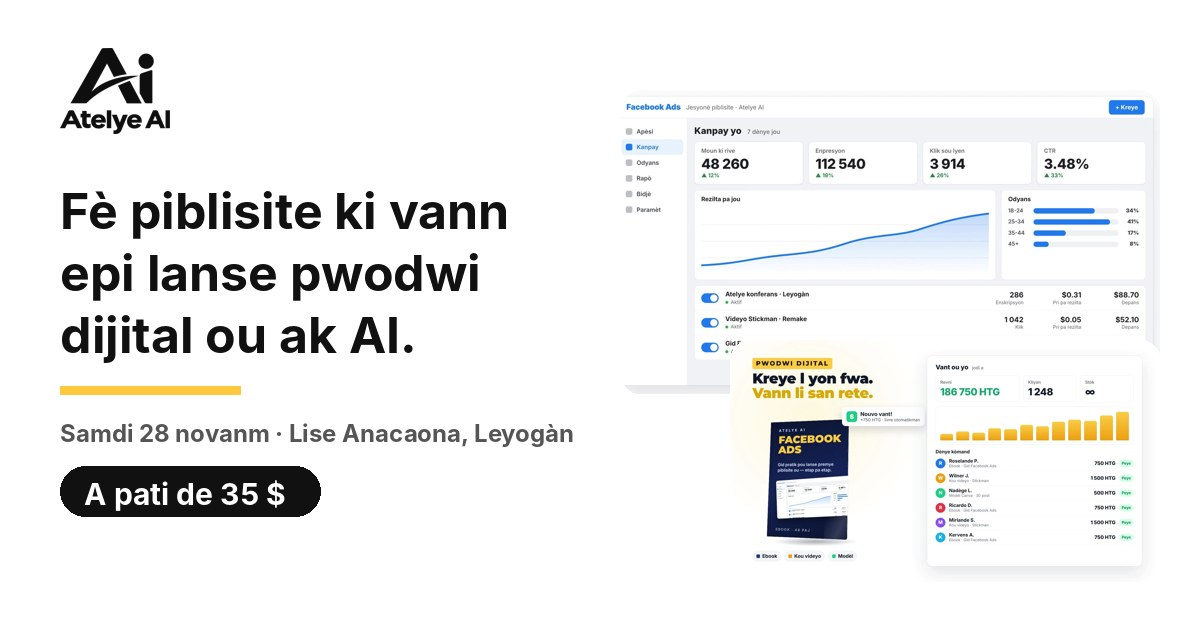
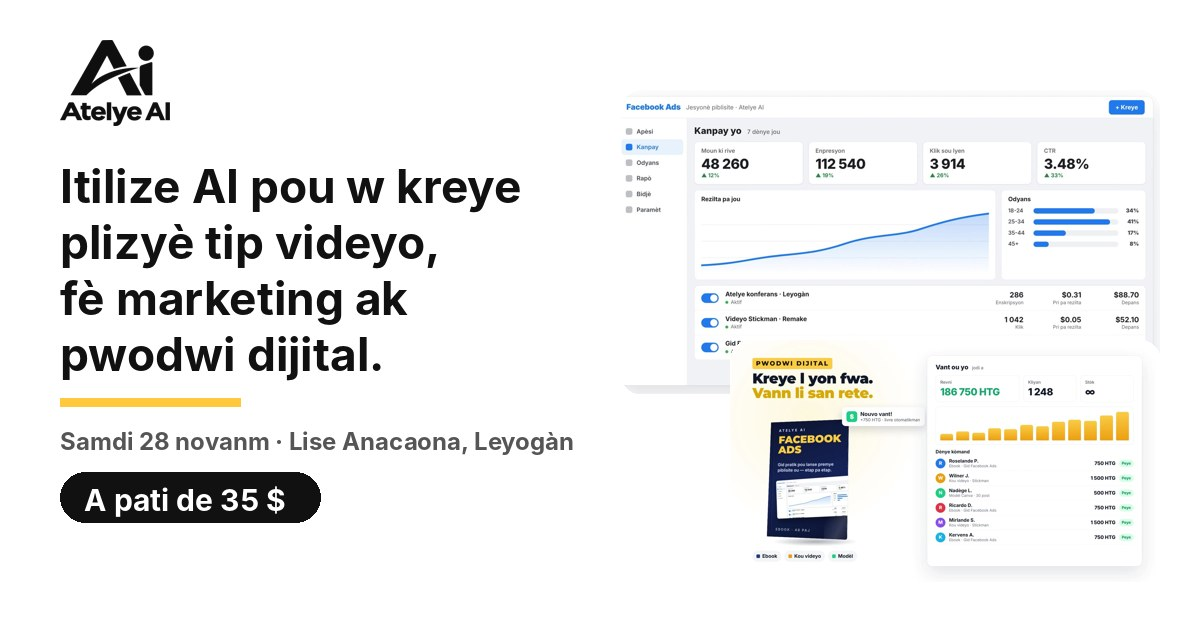
Konferans: new headline 'Itilize AI pou w kreye plizyè tip videyo, fè marketing ak pwodwi dijital' in page, metadata and share image
Claude-Session: https://claude.ai/code/session_01EfbnunJUApRHNS5LHtqyBb

Changed region(s): [[0.0308, 0.2714, 0.4933, 0.8444], [0.0308, 0.0603, 0.1542, 0.2111]]

diff --git a/public/konferans.html b/public/konferans.html
@@ -3,10 +3,10 @@
 <head>
 <meta charset="utf-8">
 <meta name="viewport" content="width=device-width, initial-scale=1">
-<title>Atelye konferans Atelye AI · Facebook Ads, pwodwi dijital ak AI · 28 novanm, Leyogàn</title>
-<meta name="description" content="An yon jounen, aprann fè piblisite ki vann epi lanse pwodwi dijital ou ak AI. Samdi 28 novanm, Lise Anacaona, Leyogàn. Tikè a pati de 35 $.">
-<meta property="og:title" content="Atelye konferans Atelye AI · Samdi 28 novanm, Leyogàn">
-<meta property="og:description" content="An yon jounen, aprann fè piblisite ki vann epi lanse pwodwi dijital ou ak AI. Samdi 28 novanm, Lise Anacaona, Leyogàn. Tikè a pati de 35 $.">
+<title>Itilize AI pou w kreye videyo, fè marketing ak pwodwi dijital · Atelye AI</title>
+<meta name="description" content="Atelye konferans an kreyòl: itilize AI pou w kreye plizyè tip videyo, fè marketing ak pwodwi dijital. Samdi 28 novanm, Lise Anacaona, Leyogàn. Tikè a pati de 35 $.">
+<meta property="og:title" content="Itilize AI pou w kreye plizyè tip videyo, fè marketing ak pwodwi dijital">
+<meta property="og:description" content="Atelye konferans an kreyòl: itilize AI pou w kreye plizyè tip videyo, fè marketing ak pwodwi dijital. Samdi 28 novanm, Lise Anacaona, Leyogàn. Tikè a pati de 35 $.">
 <meta property="og:image" content="https://atelye-ai.vercel.app/art/konferans-share.jpg">
 <meta property="og:image:width" content="1200">
 <meta property="og:image:height" content="630">
@@ -218,7 +218,7 @@
 <section class="lh"><div class="wrap g">
   <div>
     <div class="eyebrow tr8"><svg width="16" height="16" viewBox="0 0 24 24" fill="currentColor" aria-hidden="true"><path d="M12.87 15.07l-2.54-2.51.03-.03c1.74-1.94 2.98-4.17 3.71-6.53H17V4h-7V2H8v2H1v1.99h11.17C11.5 7.92 10.44 9.75 9 11.35 8.07 10.32 7.3 9.19 6.69 8h-2c.73 1.63 1.73 3.17 2.98 4.56l-5.09 5.02L4 19l5-5 3.11 3.11.76-2.04zM18.5 10h-2L12 22h2l1.12-3h4.75L21 22h2l-4.5-12zm-2.62 7l1.62-4.33L19.12 17h-3.24z"/></svg>Atelye konferans an pèsòn · Leyogàn</div>
-    <h1>An yon jounen, aprann fè piblisite ki vann epi lanse pwodwi dijital ou ak AI.</h1>
+    <h1>Itilize AI pou w kreye plizyè tip videyo, fè marketing ak pwodwi dijital.</h1>
     <p class="lead">Atelye konferans pratik ak Atelye AI, an kreyòl, ak telefòn ou. Ou soti ak kanpay Facebook ou, pwodwi dijital ou ak premye videyo AI ou.</p>
     <div class="cta">
       <a class="btn" href="#tike">Mwen rezève plas mwen</a>
